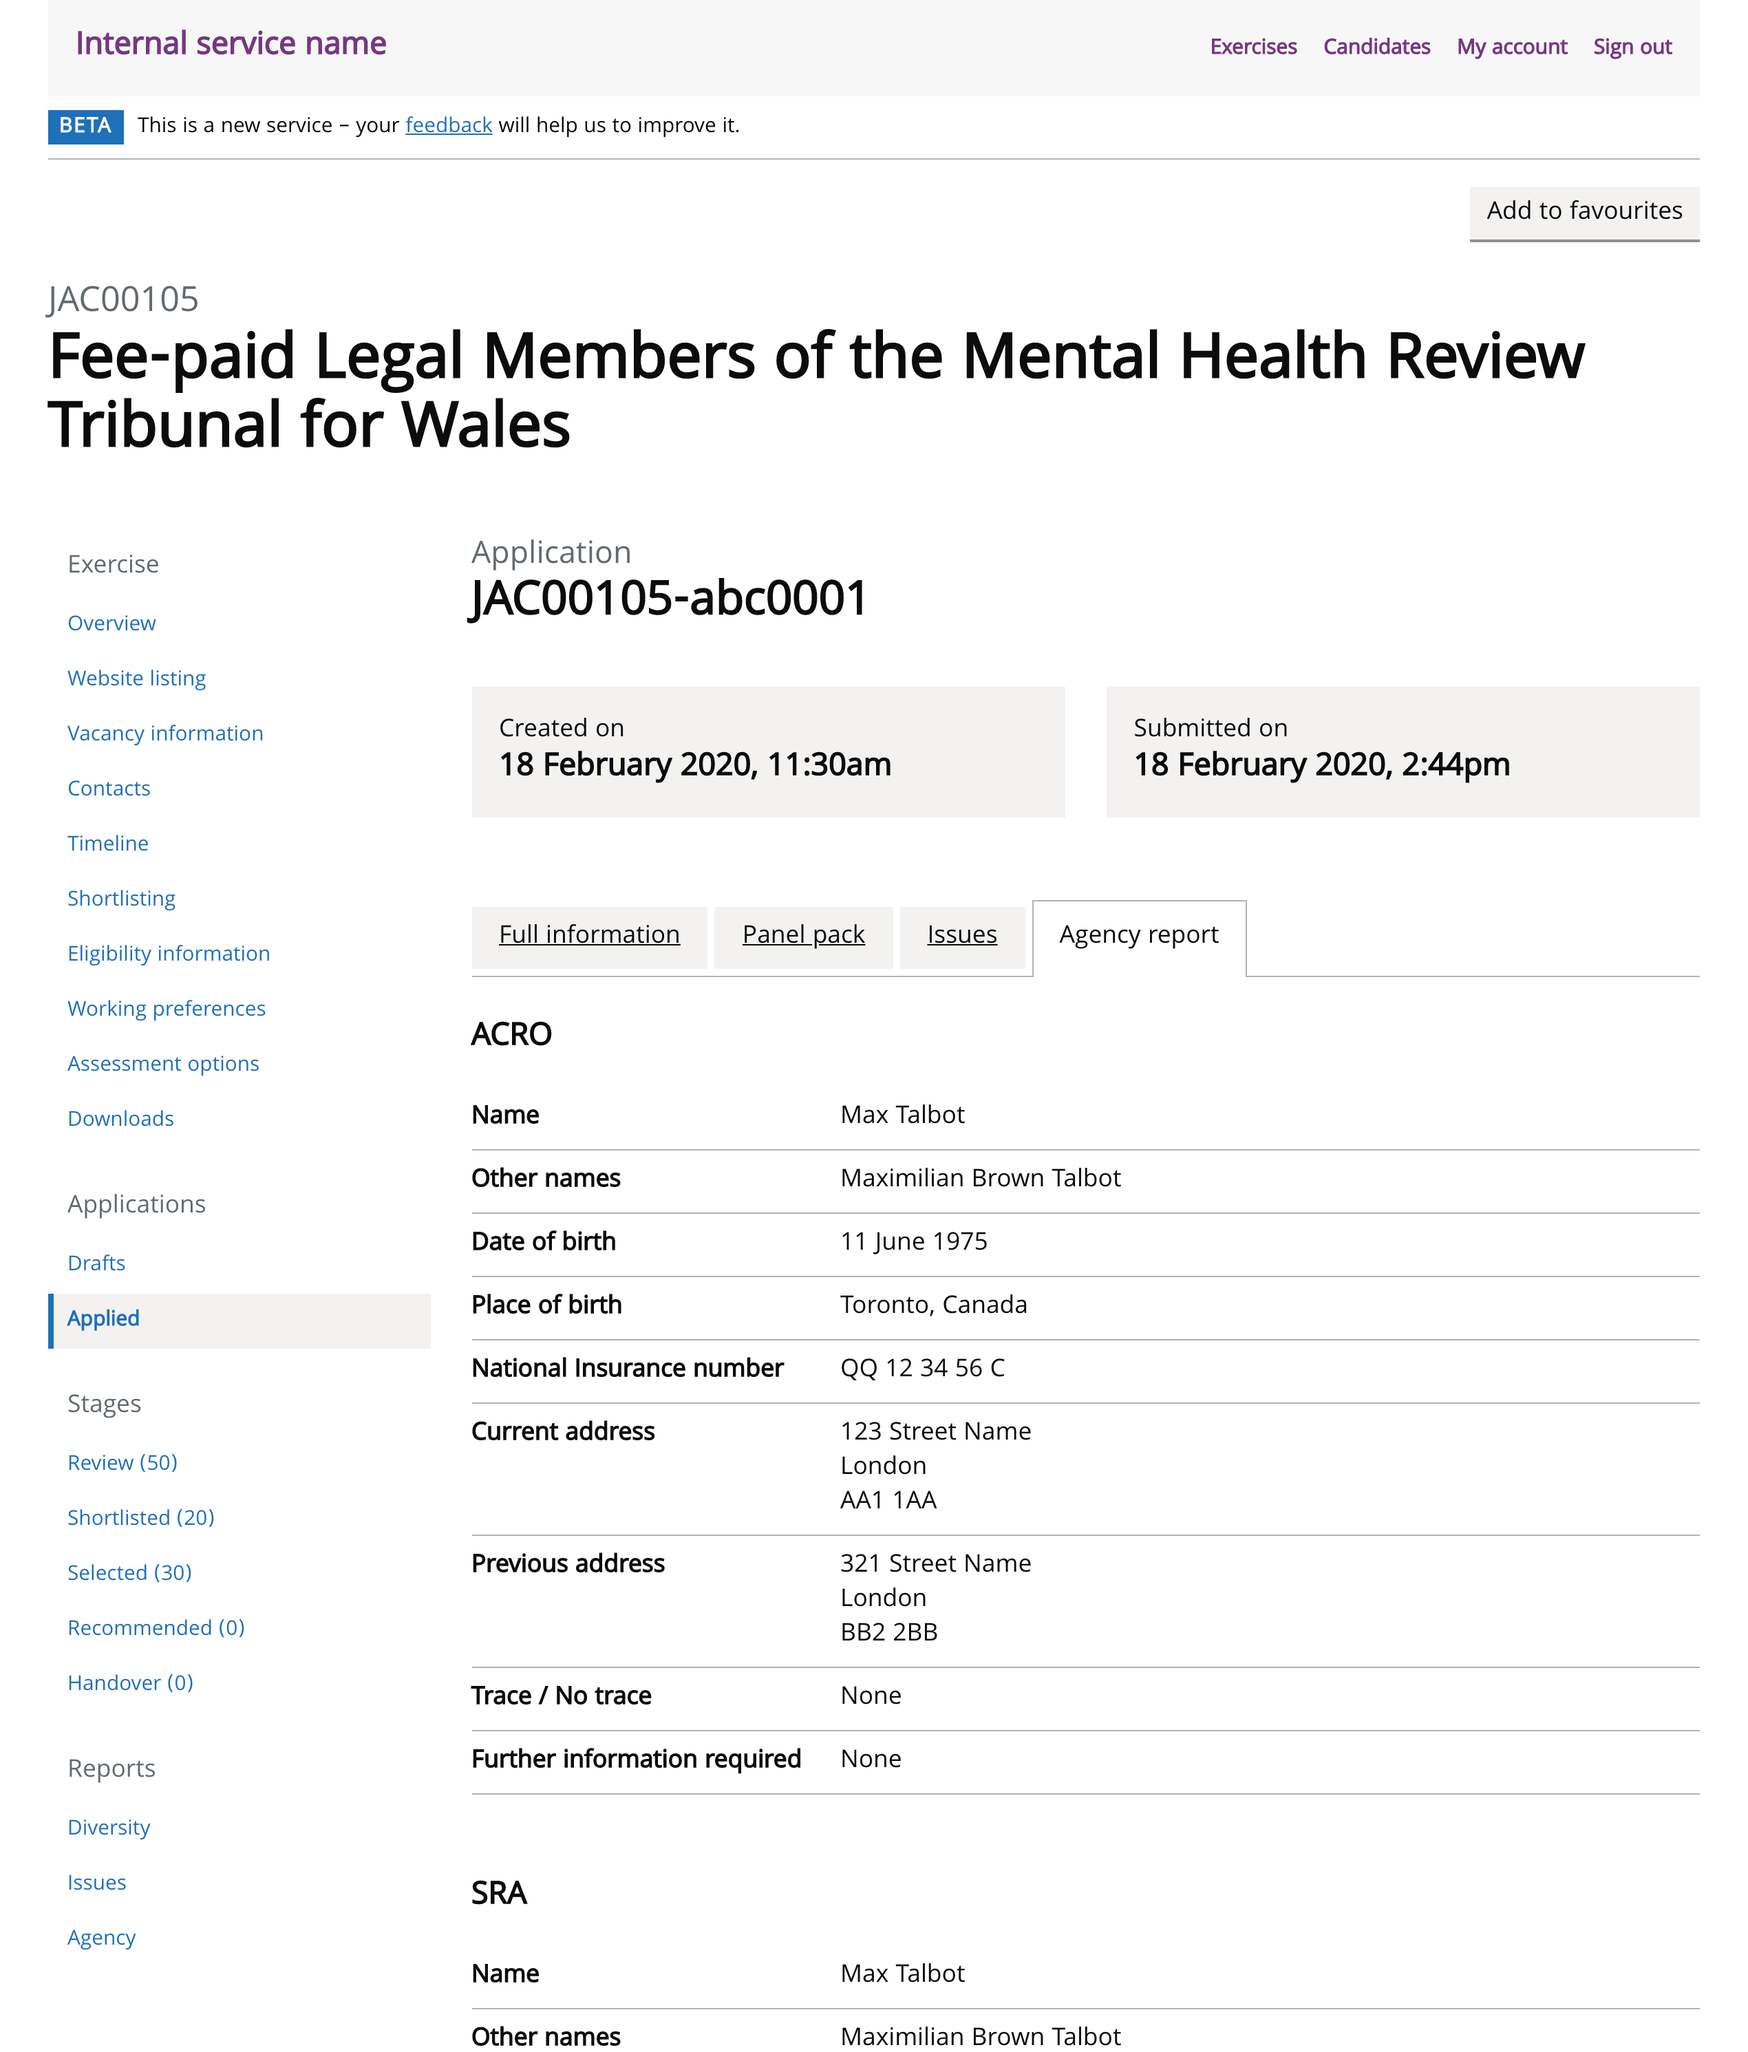
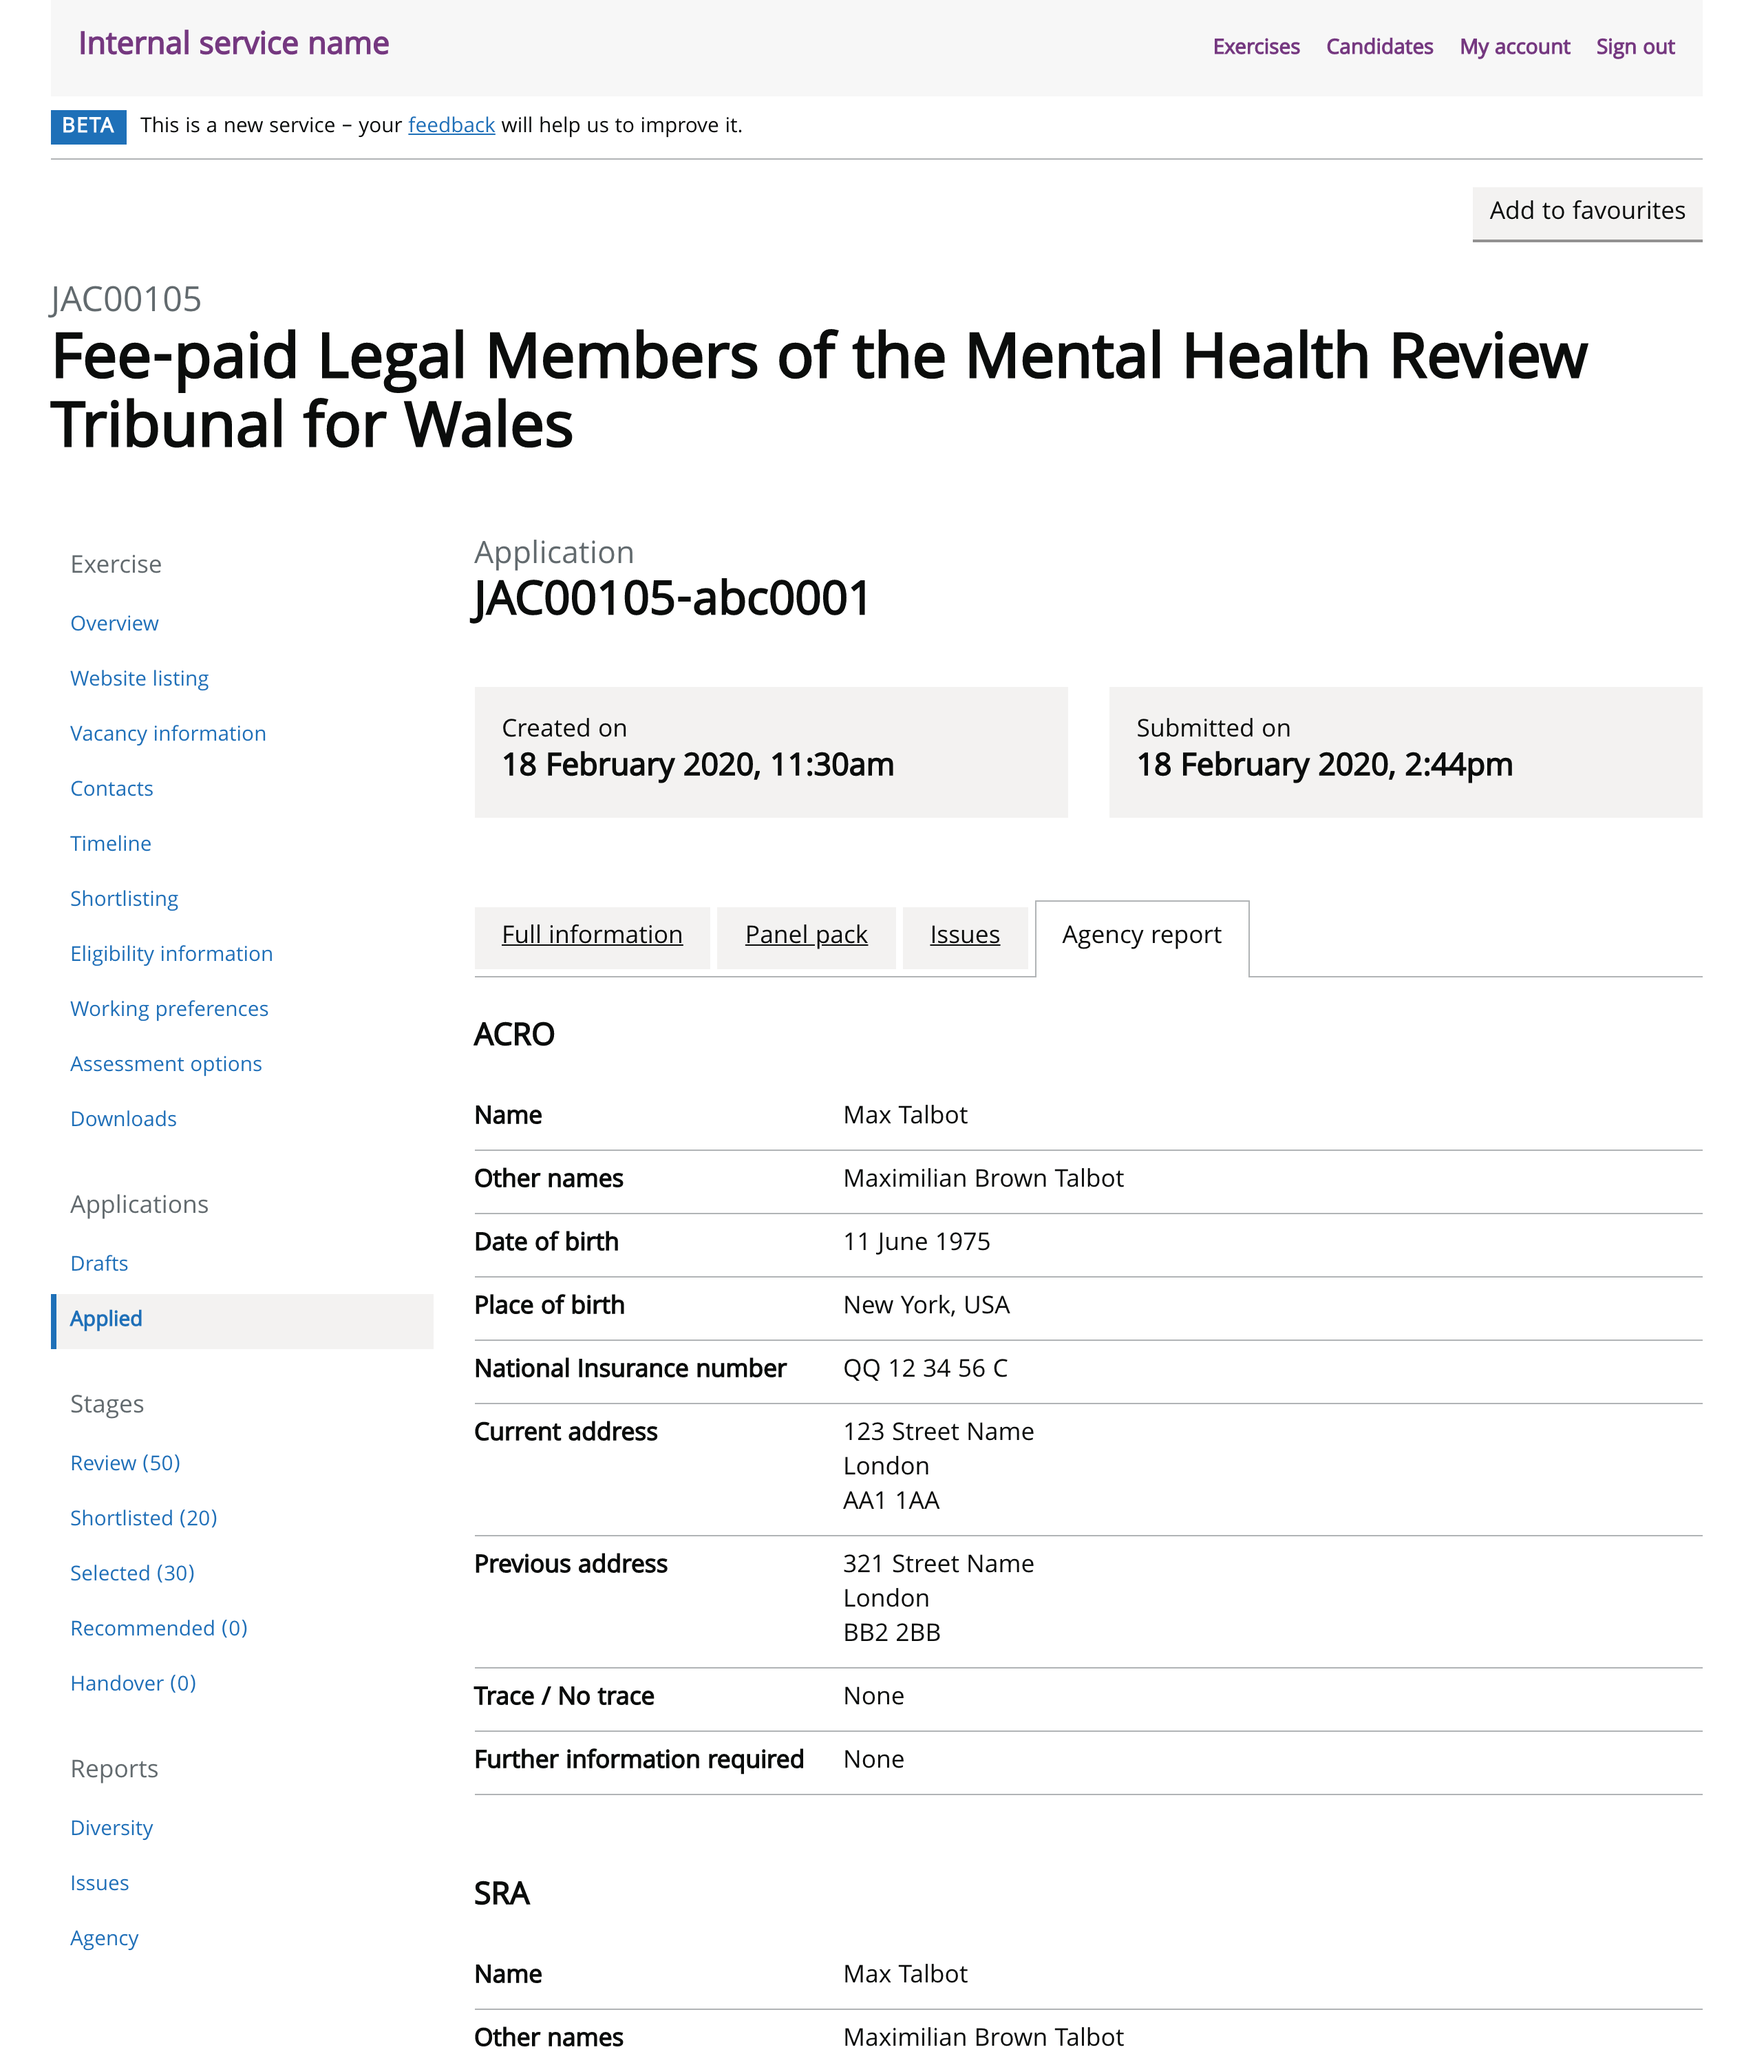
Updates to prototype

diff --git a/app/views/current/view-candidate-profile-history/max-talbot.html b/app/views/current/view-candidate-profile-history/max-talbot.html
@@ -112,179 +112,6 @@
 							<dd class="govuk-summary-list__value">Prefer not to say</dd>
 						</div>
 					</dl>
-					<!-- Character checks 
-					<h2 class="govuk-heading-l govuk-!-margin-top-8 govuk-!-margin-bottom-6">Character checks</h2>
-					<h3 class="govuk-heading-m">ACRO</h3>
-					<dl class="govuk-summary-list">
-						<div class="govuk-summary-list__row">
-							<dt class="govuk-summary-list__key">Name</dt>
-							<dd class="govuk-summary-list__value">Max Talbot</dd>
-						</div>
-						<div class="govuk-summary-list__row">
-							<dt class="govuk-summary-list__key">Other names</dt>
-							<dd class="govuk-summary-list__value">Maximilian Brown Talbot</dd>
-						</div>
-						<div class="govuk-summary-list__row">
-							<dt class="govuk-summary-list__key">Date of birth</dt>
-							<dd class="govuk-summary-list__value">11 June 1975</dd>
-						</div>
-						<div class="govuk-summary-list__row">
-							<dt class="govuk-summary-list__key">Place of birth</dt>
-							<dd class="govuk-summary-list__value">Toronto, Canada</dd>
-						</div>	
-						<div class="govuk-summary-list__row">
-							<dt class="govuk-summary-list__key">National Insurance number</dt>
-							<dd class="govuk-summary-list__value">QQ 12 34 56 C</dd>
-						</div>	
-						<div class="govuk-summary-list__row">
-							<dt class="govuk-summary-list__key">Current address</dt>
-							<dd class="govuk-summary-list__value">123 Street Name<br />London<br />AA1 1AA</dd>
-						</div>	
-						<div class="govuk-summary-list__row">
-							<dt class="govuk-summary-list__key">Previous address</dt>
-							<dd class="govuk-summary-list__value">321 Street Name<br />London<br />BB2 2BB</dd>
-						</div>
-						<div class="govuk-summary-list__row">
-							<dt class="govuk-summary-list__key">Trace / No trace</dt>
-							<dd class="govuk-summary-list__value">None</dd>
-						</div>
-						<div class="govuk-summary-list__row">
-							<dt class="govuk-summary-list__key">Further information required</dt>
-							<dd class="govuk-summary-list__value">None</dd>
-						</div>	
-					</dl>
-					<h3 class="govuk-heading-m govuk-!-margin-top-7">SRA</h3>
-					<dl class="govuk-summary-list">
-						<div class="govuk-summary-list__row">
-							<dt class="govuk-summary-list__key">Name</dt>
-							<dd class="govuk-summary-list__value">Max Talbot</dd>
-						</div>
-						<div class="govuk-summary-list__row">
-							<dt class="govuk-summary-list__key">Other names</dt>
-							<dd class="govuk-summary-list__value">Maximilian Brown Talbot</dd>
-						</div>
-						<div class="govuk-summary-list__row">
-							<dt class="govuk-summary-list__key">Admission to the roll</dt>
-							<dd class="govuk-summary-list__value">8 March 1997</dd>
-						</div>
-						<div class="govuk-summary-list__row">
-							<dt class="govuk-summary-list__key">Registration number</dt>
-							<dd class="govuk-summary-list__value">AB1234C</dd>
-						</div>	
-					</dl>
-					<h3 class="govuk-heading-m govuk-!-margin-top-7">BSB</h3>
-					<dl class="govuk-summary-list">
-						<div class="govuk-summary-list__row">
-							<dt class="govuk-summary-list__key">Name</dt>
-							<dd class="govuk-summary-list__value">Max Talbot</dd>
-						</div>
-						<div class="govuk-summary-list__row">
-							<dt class="govuk-summary-list__key">Other names</dt>
-							<dd class="govuk-summary-list__value">Maximilian Brown Talbot</dd>
-						</div>
-						<div class="govuk-summary-list__row">
-							<dt class="govuk-summary-list__key">Called to the Bar</dt>
-							<dd class="govuk-summary-list__value">19 July 2000</dd>
-						</div>
-						<div class="govuk-summary-list__row">
-							<dt class="govuk-summary-list__key">Registration number</dt>
-							<dd class="govuk-summary-list__value">AB1234C</dd>
-						</div>	
-					</dl>
-					<h3 class="govuk-heading-m govuk-!-margin-top-7">JCIO</h3>
-					<dl class="govuk-summary-list">
-						<div class="govuk-summary-list__row">
-							<dt class="govuk-summary-list__key">Name</dt>
-							<dd class="govuk-summary-list__value">Max Talbot</dd>
-						</div>
-						<div class="govuk-summary-list__row">
-							<dt class="govuk-summary-list__key">Other names</dt>
-							<dd class="govuk-summary-list__value">Maximilian Brown Talbot</dd>
-						</div>
-						<div class="govuk-summary-list__row">
-							<dt class="govuk-summary-list__key">Judicial Office</dt>
-							<dd class="govuk-summary-list__value">Yes</dd>
-						</div>
-						<div class="govuk-summary-list__row">
-							<dt class="govuk-summary-list__key">Judicial posts</dt>
-							<dd class="govuk-summary-list__value">
-								<ul class="govuk-list govuk-list--bullet">
-									<li>Fee-Paid Tribunal Judger</li>
-									<li>Recorder</li>
-								</ul>
-							</dd>
-						</div>	
-					</dl>
-					<h3 class="govuk-heading-m govuk-!-margin-top-7">HMRC</h3>
-					<dl class="govuk-summary-list">
-						<div class="govuk-summary-list__row">
-							<dt class="govuk-summary-list__key">Name</dt>
-							<dd class="govuk-summary-list__value">Max Talbot</dd>
-						</div>
-						<div class="govuk-summary-list__row">
-							<dt class="govuk-summary-list__key">Other names</dt>
-							<dd class="govuk-summary-list__value">Maximilian Brown Talbot</dd>
-						</div>
-						<div class="govuk-summary-list__row">
-							<dt class="govuk-summary-list__key">Date of birth</dt>
-							<dd class="govuk-summary-list__value">11 June 1975</dd>
-						</div>
-						<div class="govuk-summary-list__row">
-							<dt class="govuk-summary-list__key">VAT registration number</dt>
-							<dd class="govuk-summary-list__value">123456789</dd>
-						</div>	
-						<div class="govuk-summary-list__row">
-							<dt class="govuk-summary-list__key">Issues declared by the candidate</dt>
-							<dd class="govuk-summary-list__value">Late tax return penalty to HMRC.</dd>
-						</div>	
-						<div class="govuk-summary-list__row">
-							<dt class="govuk-summary-list__key">Outstanding tax returns</dt>
-							<dd class="govuk-summary-list__value"><span class="dark-grey-text">N/A</span></dd>
-						</div>	
-						<div class="govuk-summary-list__row">
-							<dt class="govuk-summary-list__key">Income tax debt</dt>
-							<dd class="govuk-summary-list__value">£3,000</dd>
-						</div>
-						<div class="govuk-summary-list__row">
-							<dt class="govuk-summary-list__key">Ongoing income tax enquires</dt>
-							<dd class="govuk-summary-list__value"><span class="dark-grey-text">N/A</span></dd>
-						</div>
-						<div class="govuk-summary-list__row">
-							<dt class="govuk-summary-list__key">Outstanding VAT debt</dt>
-							<dd class="govuk-summary-list__value"><span class="dark-grey-text">N/A</span></dd>
-						</div>	
-						<div class="govuk-summary-list__row">
-							<dt class="govuk-summary-list__key">Ongoing VAT enquires</dt>
-							<dd class="govuk-summary-list__value"><span class="dark-grey-text">N/A</span></dd>
-						</div>	
-						<div class="govuk-summary-list__row">
-							<dt class="govuk-summary-list__key">Centaur information</dt>
-							<dd class="govuk-summary-list__value">Nothing recorded</dd>
-						</div>	
-					</dl>
-					<h3 class="govuk-heading-m govuk-!-margin-top-7">Other</h3>
-					<dl class="govuk-summary-list">
-						<div class="govuk-summary-list__row">
-							<dt class="govuk-summary-list__key">Name</dt>
-							<dd class="govuk-summary-list__value">Max Talbot</dd>
-						</div>
-						<div class="govuk-summary-list__row">
-							<dt class="govuk-summary-list__key">Other names</dt>
-							<dd class="govuk-summary-list__value">Maximilian Brown Talbot</dd>
-						</div>
-						<div class="govuk-summary-list__row">
-							<dt class="govuk-summary-list__key">Date of membership</dt>
-							<dd class="govuk-summary-list__value">17 February 2012</dd>
-						</div>
-						<div class="govuk-summary-list__row">
-							<dt class="govuk-summary-list__key">Membership number</dt>
-							<dd class="govuk-summary-list__value">AB1234C</dd>
-						</div>	
-						<div class="govuk-summary-list__row">
-							<dt class="govuk-summary-list__key">Comments or restrictions</dt>
-							<dd class="govuk-summary-list__value">None</dd>
-						</div>	
-					</dl> -->
 					<!-- Issues -->
 					<h2 class="govuk-heading-l govuk-!-margin-top-8 govuk-!-margin-bottom-6">Issues</h2>
 					<h3 class="govuk-heading-m">Character</h3>

diff --git a/app/views/current/view-candidate-profile-history/max-talbot-tabs.html b/app/views/current/view-candidate-profile-history/max-talbot-tabs.html
@@ -153,7 +153,7 @@
 								</div>
 								<div class="govuk-summary-list__row">
 									<dt class="govuk-summary-list__key">Place of birth</dt>
-									<dd class="govuk-summary-list__value">Toronto, Canada</dd>
+									<dd class="govuk-summary-list__value">New York, USA</dd>
 								</div>	
 								<div class="govuk-summary-list__row">
 									<dt class="govuk-summary-list__key">National Insurance number</dt>

diff --git a/app/views/current/view-agency-report/index.html b/app/views/current/view-agency-report/index.html
@@ -620,7 +620,7 @@
 						</div>
 						<div class="govuk-summary-list__row">
 							<dt class="govuk-summary-list__key">Place of birth</dt>
-							<dd class="govuk-summary-list__value">Toronto, Canada</dd>
+							<dd class="govuk-summary-list__value">New York, USA</dd>
 						</div>	
 						<div class="govuk-summary-list__row">
 							<dt class="govuk-summary-list__key">National Insurance number</dt>

diff --git a/app/views/current/view-candidate-profile-history/checks.html b/app/views/current/view-candidate-profile-history/checks.html
@@ -179,7 +179,7 @@
 						</div>
 						<div class="govuk-summary-list__row">
 							<dt class="govuk-summary-list__key">Place of birth</dt>
-							<dd class="govuk-summary-list__value">Toronto, Canada</dd>
+							<dd class="govuk-summary-list__value">New York, USA</dd>
 						</div>	
 						<div class="govuk-summary-list__row">
 							<dt class="govuk-summary-list__key">National Insurance number</dt>

diff --git a/app/views/current/view-candidate-profile-history/max-talbot-2.html b/app/views/current/view-candidate-profile-history/max-talbot-2.html
@@ -130,7 +130,7 @@
 						</div>
 						<div class="govuk-summary-list__row">
 							<dt class="govuk-summary-list__key">Place of birth</dt>
-							<dd class="govuk-summary-list__value">Toronto, Canada</dd>
+							<dd class="govuk-summary-list__value">New York, USA</dd>
 						</div>	
 						<div class="govuk-summary-list__row">
 							<dt class="govuk-summary-list__key">National Insurance number</dt>
